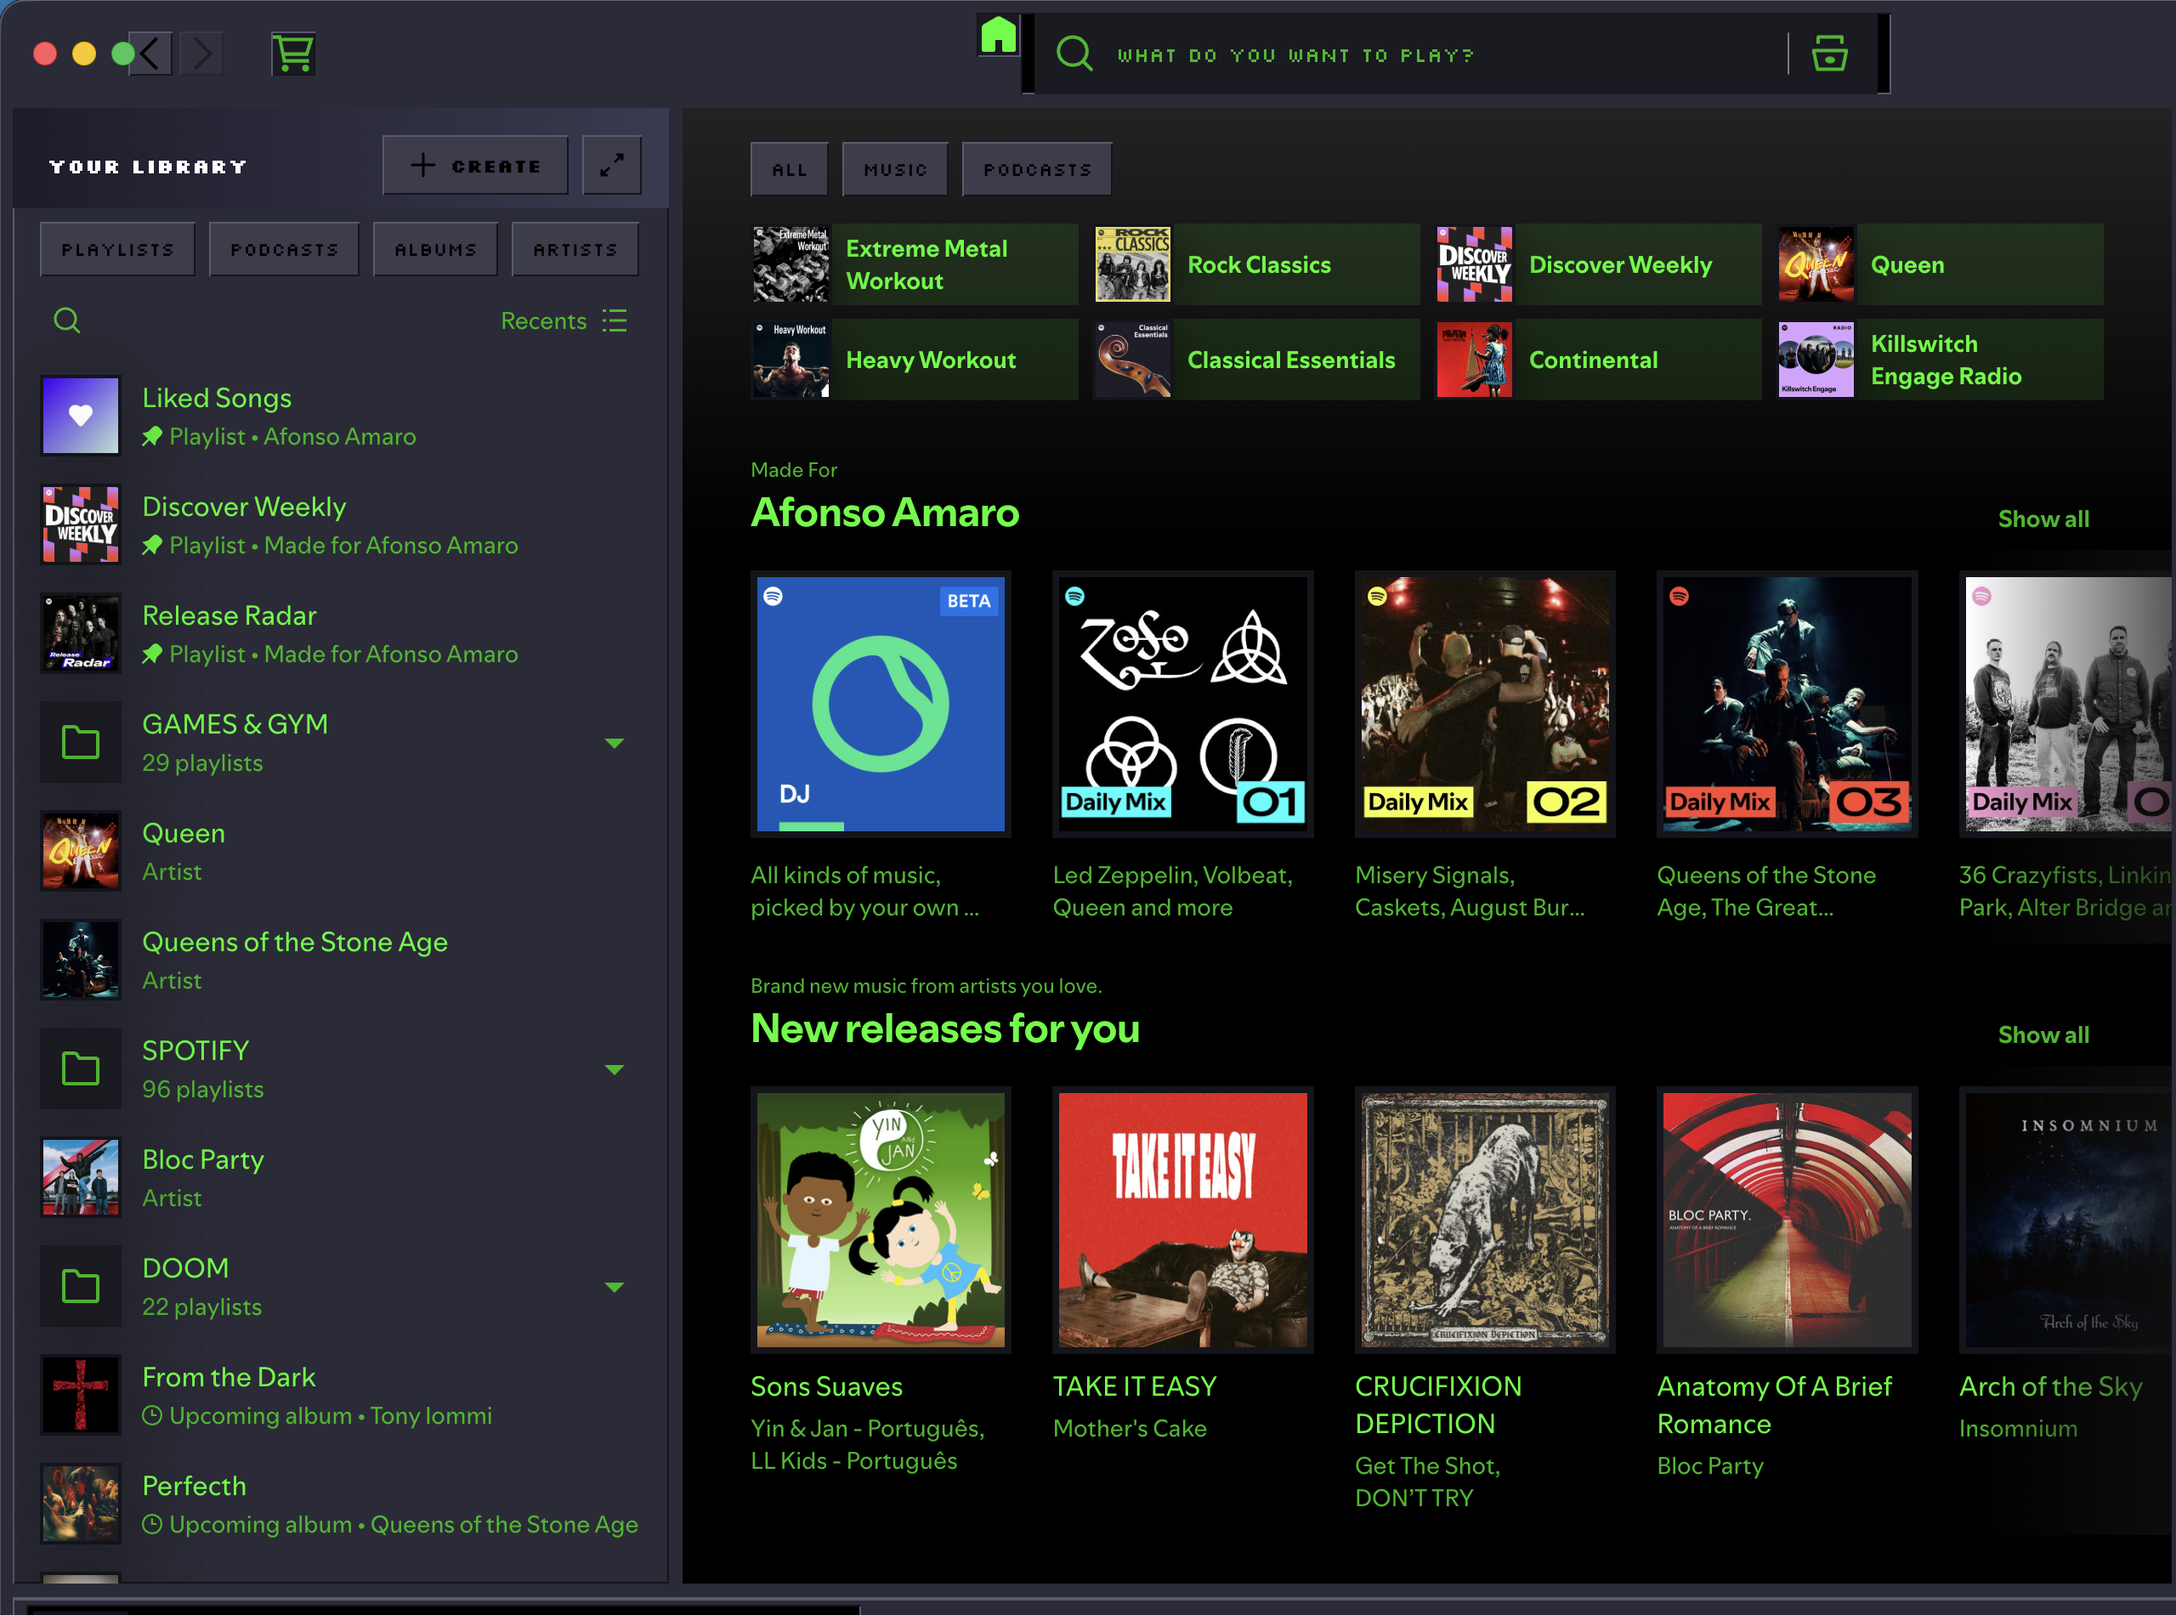
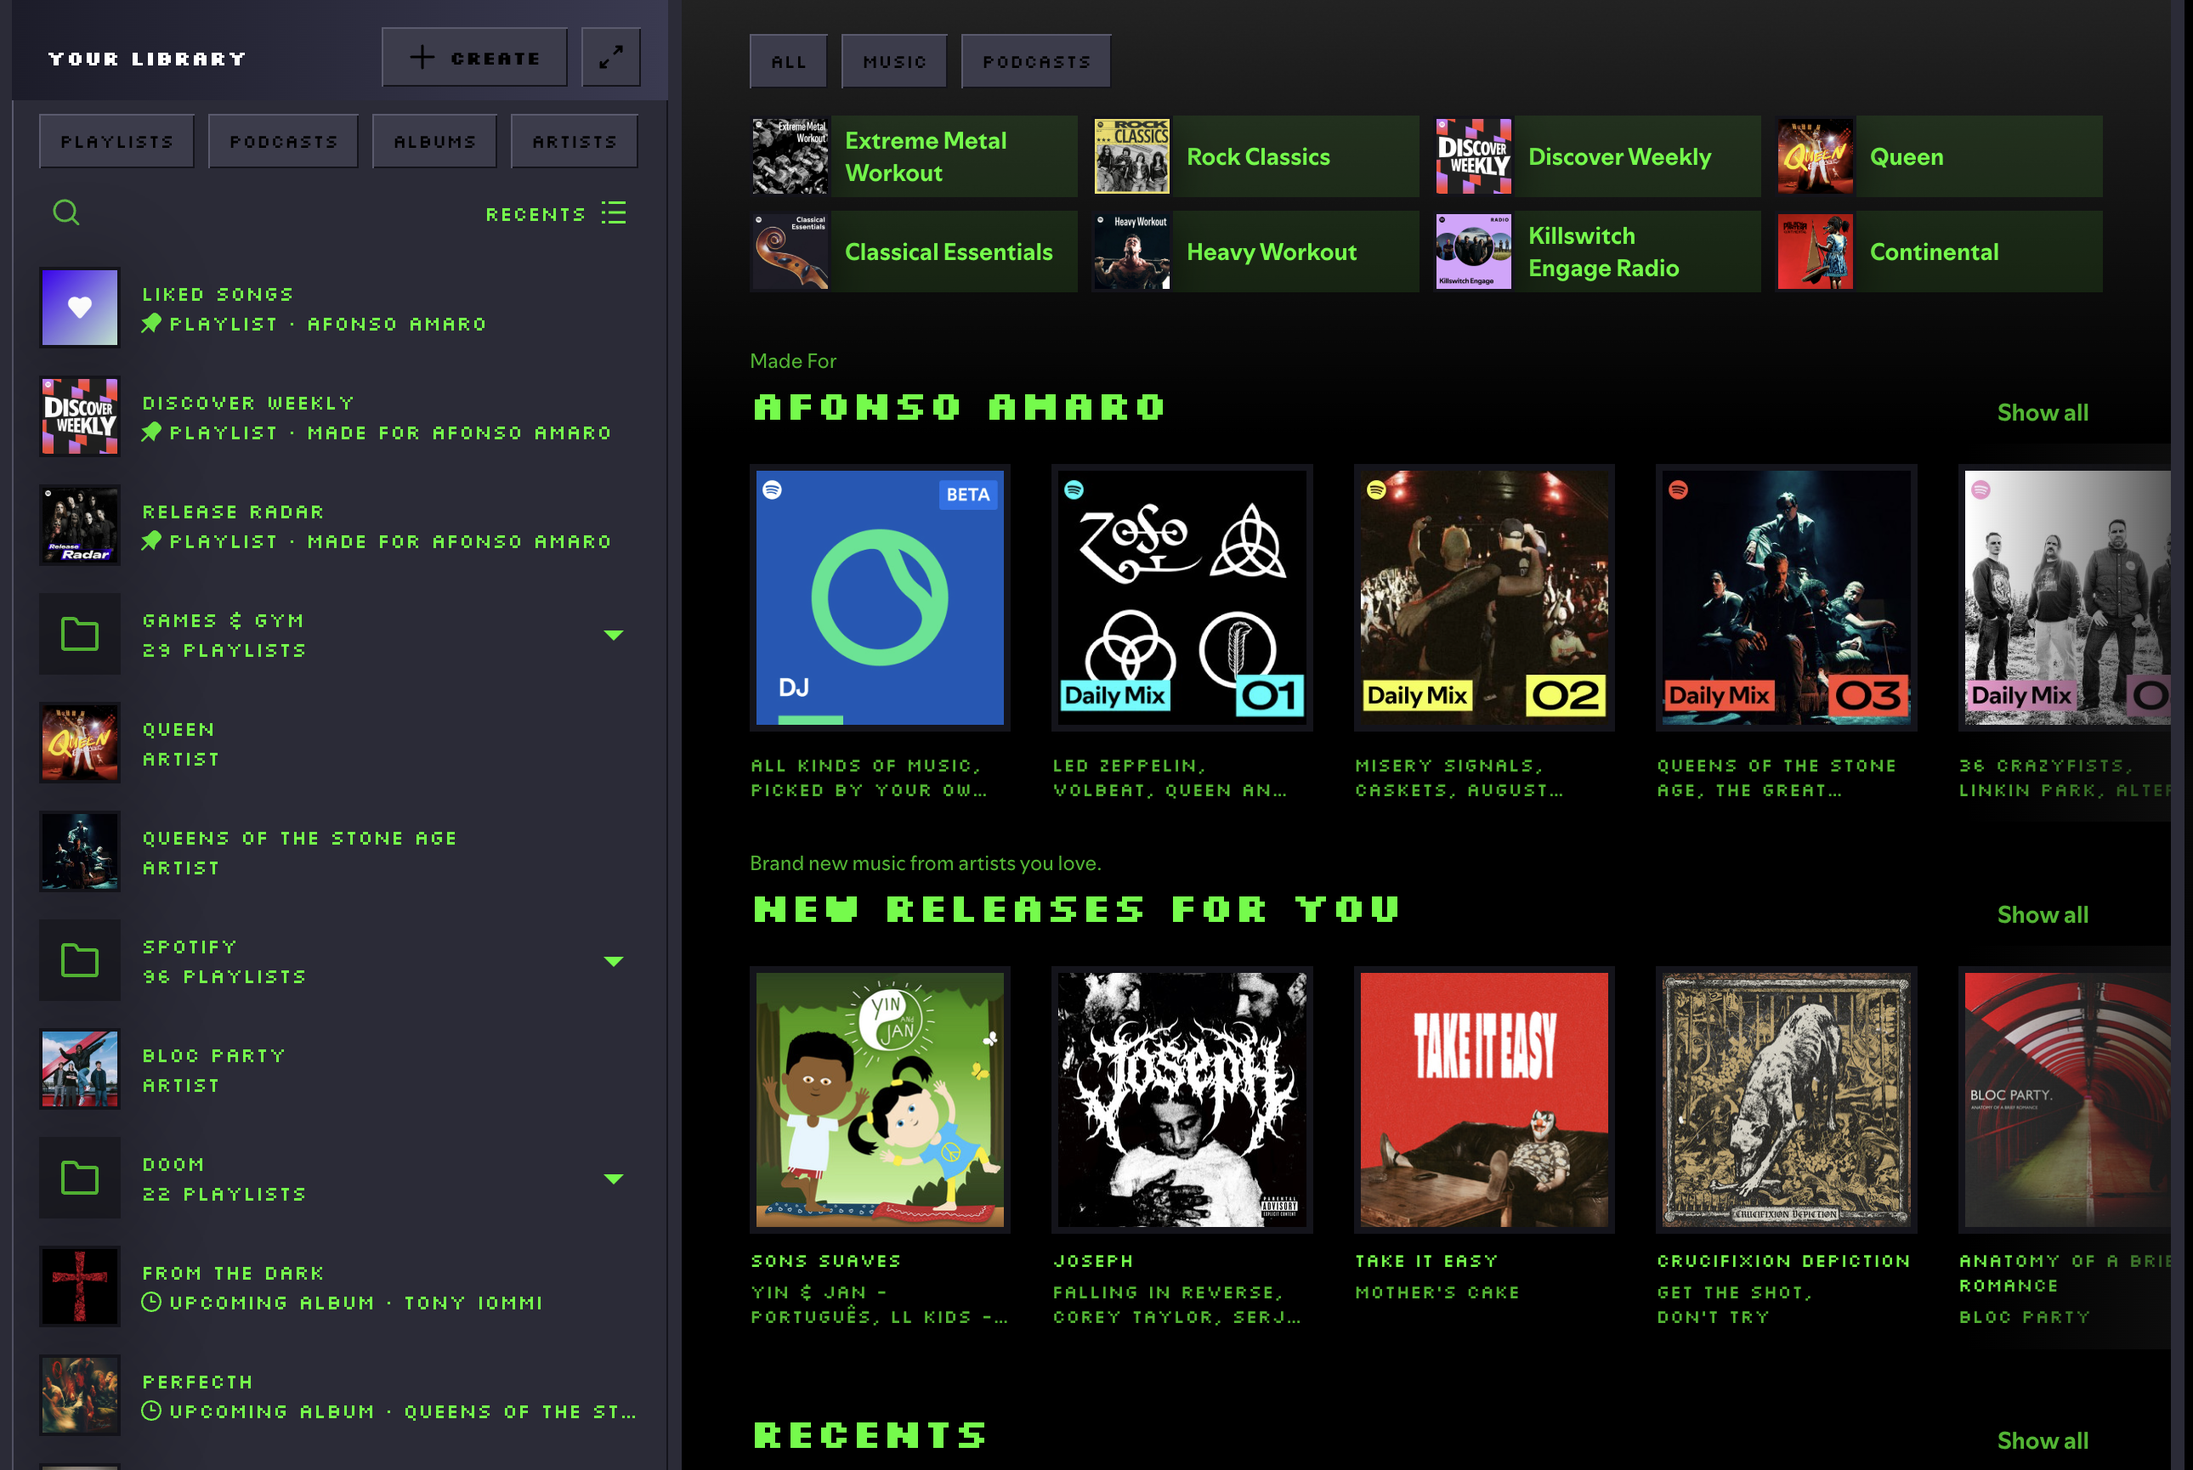
fix: restore selectors broken by Spotify 1.3.0
Library entries, track title and duration, shelf headings and card text
fell back to the stock look after the 1.3.0 update. The library and
track list now anchor on aria-selected, the track link testid and child
position; the shelf title on h2 under the main view; the card on the
Encore data-encore-id attributes, since main-card-card and
main-card-cardMetadata are gone from the DOM. The old names stay in the
selector lists so an older release lights up without an edit.

README gains the post-update ritual and the three affected screenshots
are refreshed on 1.3.0.

diff --git a/user.css b/user.css
@@ -336,26 +336,39 @@
 
 /* The row's own font never reaches the text: the title, the artist line, the
    index and the duration each carry their own, so the pixel font is set on
-   them instead of on the row. */
+   them instead of on the row.
+
+   Spotify 1.3.0 dropped the readable names for the title and the duration.
+   The title link carries a testid and the duration sits in the row's last
+   section, both readable; the old names stay so a release that brings them
+   back lights up without an edit. */
 .main-trackList-trackList .main-trackList-trackListRow a,
 .main-trackList-trackList .main-trackList-trackListRow span,
 .main-trackList-trackList .main-trackList-rowMainContentTitle,
+.main-trackList-trackList .main-trackList-rowMainContent [data-testid="internal-track-link"],
+.main-trackList-trackList .main-trackList-rowMainContent > :first-child,
 .main-trackList-trackList .main-trackList-rowMainContentSubTitle,
 .main-trackList-trackList .main-trackList-rowMarker,
-.main-trackList-trackList .main-trackList-duration {
+.main-trackList-trackList .main-trackList-duration,
+.main-trackList-trackList .main-trackList-rowSectionEnd,
+.main-trackList-trackList .main-trackList-rowSectionEnd * {
   font-family: var(--wa-font-pixel);
   font-size: 12px;
   text-transform: uppercase;
   letter-spacing: 0;
 }
 
-.main-trackList-trackList .main-trackList-rowMainContentTitle {
+.main-trackList-trackList .main-trackList-rowMainContentTitle,
+.main-trackList-trackList .main-trackList-rowMainContent [data-testid="internal-track-link"],
+.main-trackList-trackList .main-trackList-rowMainContent > :first-child {
   color: var(--spice-text);
 }
 
 .main-trackList-trackList .main-trackList-rowMainContentSubTitle,
 .main-trackList-trackList .main-trackList-rowMarker,
-.main-trackList-trackList .main-trackList-duration {
+.main-trackList-trackList .main-trackList-duration,
+.main-trackList-trackList .main-trackList-rowSectionEnd,
+.main-trackList-trackList .main-trackList-rowSectionEnd * {
   color: var(--spice-subtext);
 }
 
@@ -382,9 +395,12 @@
    for this state, so a future release renames it and the white goes quietly.
    Re-read it from the bundle when that happens. */
 .main-trackList-trackList .TiaWL1ubrITBXdmD .main-trackList-rowMainContentTitle,
+.main-trackList-trackList .TiaWL1ubrITBXdmD .main-trackList-rowMainContent [data-testid="internal-track-link"],
+.main-trackList-trackList .TiaWL1ubrITBXdmD .main-trackList-rowMainContent > :first-child,
 .main-trackList-trackList .TiaWL1ubrITBXdmD .main-trackList-rowMainContentSubTitle,
 .main-trackList-trackList .TiaWL1ubrITBXdmD .main-trackList-rowMarker,
-.main-trackList-trackList .TiaWL1ubrITBXdmD .main-trackList-duration {
+.main-trackList-trackList .TiaWL1ubrITBXdmD .main-trackList-duration,
+.main-trackList-trackList .TiaWL1ubrITBXdmD .main-trackList-rowSectionEnd * {
   color: var(--wa-white);
 }
 
@@ -429,9 +445,15 @@
   color: var(--wa-white);
 }
 
+/* Spotify 1.3.0 dropped the readable name of the entry itself; the container
+   around it kept its name and the entry still carries aria-selected. */
 .main-yourLibraryX-listItem,
 .main-yourLibraryX-listItem a,
-.main-yourLibraryX-listItem span {
+.main-yourLibraryX-listItem span,
+.main-yourLibraryX-libraryItemContainer,
+.main-yourLibraryX-libraryItemContainer a,
+.main-yourLibraryX-libraryItemContainer span,
+.main-yourLibraryX-libraryItemContainer p {
   font-family: var(--wa-font-pixel);
   font-size: 12px;
   text-transform: uppercase;
@@ -439,13 +461,17 @@
   color: var(--spice-text);
 }
 
-.main-yourLibraryX-listItem[aria-selected="true"] {
+.main-yourLibraryX-listItem[aria-selected="true"],
+.main-yourLibraryX-libraryItemContainer[aria-selected="true"],
+.main-yourLibraryX-libraryItemContainer [aria-selected="true"] {
   background-color: var(--spice-selected-row);
   box-shadow: var(--wa-sunken);
 }
 
 .main-yourLibraryX-listItem[aria-selected="true"] a,
-.main-yourLibraryX-listItem[aria-selected="true"] span {
+.main-yourLibraryX-listItem[aria-selected="true"] span,
+.main-yourLibraryX-libraryItemContainer[aria-selected="true"] *,
+.main-yourLibraryX-libraryItemContainer [aria-selected="true"] * {
   color: var(--wa-white);
 }
 
@@ -598,7 +624,8 @@ button.main-globalNav-navLinkActive {
    bars, and the entity header already sits on its own artwork. */
 .main-entityHeader-title,
 .main-entityHeader-title h1,
-.main-shelf-title {
+.main-shelf-title,
+.main-view-container h2 {
   font-family: var(--wa-font-pixel);
   text-transform: uppercase;
   color: var(--wa-white);
@@ -653,19 +680,41 @@ button.main-globalNav-navLinkActive {
   box-shadow: var(--wa-sunken);
 }
 
+/* Spotify 1.3.0 moved the shelf card to the Encore design system: the card is
+   [data-encore-id="card"] (css-map still names it main-card-cardContainer),
+   the title is [data-encore-id="cardTitle"] and the line under it is
+   [data-encore-id="cardSubtitle"]. main-card-card and main-card-cardMetadata
+   are gone from the DOM. Encore paints the text through
+   .encore-internal-color-text-subdued and .encore-text-* rules that load after
+   this sheet, so the card container is in the selector to win the tie. The
+   pre-1.3.0 names stay so an older release lights up without an edit. */
 .main-cardHeader-text,
-.main-cardSubHeader-root {
+.main-cardSubHeader-root,
+.main-card-card .main-card-cardTitle,
+.main-card-card .main-card-cardMetadata,
+.main-card-card .main-card-cardMetadata *,
+.main-card-cardContainer [data-encore-id="cardTitle"],
+.main-card-cardContainer [data-encore-id="cardTitle"] *,
+.main-card-cardContainer [data-encore-id="cardSubtitle"],
+.main-card-cardContainer [data-encore-id="cardSubtitle"] * {
   font-family: var(--wa-font-pixel);
   font-size: 11px;
   text-transform: uppercase;
   letter-spacing: 0;
 }
 
-.main-cardHeader-text {
+.main-cardHeader-text,
+.main-card-card .main-card-cardTitle,
+.main-card-cardContainer [data-encore-id="cardTitle"],
+.main-card-cardContainer [data-encore-id="cardTitle"] * {
   color: var(--spice-text);
 }
 
-.main-cardSubHeader-root {
+.main-cardSubHeader-root,
+.main-card-card .main-card-cardMetadata,
+.main-card-card .main-card-cardMetadata *,
+.main-card-cardContainer [data-encore-id="cardSubtitle"],
+.main-card-cardContainer [data-encore-id="cardSubtitle"] * {
   color: var(--spice-subtext);
 }
 

diff --git a/issues/FN-07-spotify-1-3-0-compatibility.md b/issues/FN-07-spotify-1-3-0-compatibility.md
@@ -24,9 +24,9 @@ Spotify updated from 1.2.99.317 to 1.3.0.277 during PP-05 and stopped emitting s
 Everything else survived, including the three generated class names for the playing row, repeat and shuffle.
 
 ## Acceptance Criteria
-- [ ] Each of the six renders again on 1.3.0, confirmed on screen.
-- [ ] No new generated class name unless the issue records why nothing better exists.
-- [ ] The post-update ritual is in the README: `spicetify update`, then `spicetify backup apply`.
+- [x] Each of the six renders again on 1.3.0, confirmed on screen.
+- [x] No new generated class name unless the issue records why nothing better exists.
+- [x] The post-update ritual is in the README: `spicetify update`, then `spicetify backup apply`.
 - [ ] Any name found by hand is proposed to Spicetify's class map.
 
 ## Dependencies
@@ -51,15 +51,15 @@ Research done on 2026-09-14 against Spotify 1.3.0.277 with Spicetify 2.45.0, rea
 | `main-yourLibraryX-listItem` | `main-yourLibraryX-libraryItemContainer` wraps each entry; the entry keeps `aria-selected` | `.main-yourLibraryX-libraryItemContainer` for font and colour; `[aria-selected="true"]` on or inside it for the current entry |
 | `main-trackList-rowMainContentTitle` | `main-trackList-rowMainContent` wraps title and artist; the title link carries `data-testid="internal-track-link"` | `.main-trackList-rowMainContent [data-testid="internal-track-link"]`, with `.main-trackList-rowMainContent > :first-child` as the structural fallback if the testid does not render |
 | `main-trackList-duration` | `main-trackList-rowSectionEnd` is the last column and holds the duration | `.main-trackList-rowSectionEnd` and its descendants |
-| `main-cardHeader-text` | `main-card-cardMetadata` wraps title and subtitle; the map now gives the title an empty class | `.main-card-cardMetadata > :first-child` |
-| `main-cardSubHeader-root` | same | `.main-card-cardMetadata > :not(:first-child)` |
+| `main-cardHeader-text` | the card is now an Encore component; the title carries `data-encore-id="cardTitle"` | `.main-card-cardContainer [data-encore-id="cardTitle"]` |
+| `main-cardSubHeader-root` | the line under the title carries `data-encore-id="cardSubtitle"` | `.main-card-cardContainer [data-encore-id="cardSubtitle"]` |
 | `main-shelf-title` | nothing readable is left on the shelf; the title is the only `h2` in the content column | `.main-view-container h2` |
 
 The generated names behind two of them, for the record and for the upstream proposal: `rowTitle` is `k_CUvHNLoYcwpmUhV5jN` and `rowDuration` is `buwCyhSufWYlHJ5_Wffd` in this build. Neither is used in the theme.
 
 ## Architecture Decisions
 - **No generated name enters the theme.** Every replacement is a readable container, an ARIA attribute or a child position. The two hashes above go to Spicetify's class map as `main-trackList-rowTitle` and `main-trackList-rowDuration`, which is where they belong.
-- **Child-position selectors are accepted where the container is readable.** `:first-child` under `main-card-cardMetadata` is tied to the order title-then-subtitle, which is the component's contract, not a styling accident.
+- **Encore `data-encore-id` attributes are the anchor for design-system components.** They are the component's public contract (the same attribute Spotify uses for `card`, `cardTitle`, `cardSubtitle`, `listRow`), and they do not carry the build number the `e-NNNNN-*` classes do.
 - **The old names stay in the selector lists.** A release that brings them back should light up without an edit. The rules become `.old, .new { ... }`.
 - **The README gains the post-update ritual**, which is a real user-facing need now that two updates in a week wiped the theme.
 
@@ -92,3 +92,13 @@ None.
 ## Unknowns
 - Whether `internal-track-link` renders as a DOM attribute. PP-02 showed per-button testids do not on the now playing bar; links may differ. The structural fallback is in the same rule so nothing depends on the answer.
 - Whether `aria-selected` sits on the container or on the hashed entry inside it. Both forms are in the selector.
+
+---
+
+# Found during execution
+
+- The card map in css-map.json still names `main-card-cardContainer`, `main-card-cardTitle` and `main-card-imageContainer` on 1.3.0, but `main-card-card` and `main-card-cardMetadata` are gone: the shelf card is now the Encore `card` component, with `[data-encore-id="cardTitle"]` and `[data-encore-id="cardSubtitle"]` for the text. Three attempts anchored on the old names painted nothing; the fix was to read the live DOM.
+- Spotify accepts `--remote-debugging-port=9222` (`open -a Spotify --args --remote-debugging-port=9222`), which exposes the Chrome DevTools Protocol. A 10-line Node script over `Runtime.evaluate` reads the DOM, computed styles and navigates through `Spicetify.Platform.History`. This replaces guessing from the bundle for every selector question from here on.
+- `spicetify apply` restarts Spotify without the flag; relaunch it by hand after each apply when the port is needed.
+- Track title (`k_CUvHNLoYcwpmUhV5jN`) and duration (`buwCyhSufWYlHJ5_Wffd`) are resolved through `[data-testid="internal-track-link"]`, `.main-trackList-rowMainContent > :first-child` and `.main-trackList-rowSectionEnd`, so the theme carries no hash. The two names still go upstream to the class map (criterion 4, opened after merge).
+- The Home shortcut grid, the "Made For" kicker and the "Show all" links were never in the theme's font, before or after 1.3.0; out of scope here.

diff --git a/README.md b/README.md
@@ -19,6 +19,19 @@ spicetify apply
 
 On Windows the themes folder is `%appdata%\spicetify\Themes`.
 
+## After Spotify updates
+
+Spotify overwrites its own files when it updates, which removes every theme. When the app comes back with the stock look, run:
+
+```bash
+spicetify update       # only if Spicetify itself reports a new version
+spicetify backup apply
+```
+
+`backup apply` takes a fresh backup of the new Spotify and applies the theme on top of it. A plain `spicetify apply` is not enough after an update, because the backup it would restore is from the previous Spotify.
+
+Spotify also renames CSS classes between releases. If a part of the theme falls back to the stock look after an update, that is a selector that no longer matches; please open an issue with the Spotify version.
+
 ## Development
 
 ```bash

diff --git a/issues/_index.md b/issues/_index.md
@@ -26,7 +26,7 @@ Source: `SPECS.md`. Spicetify theme that recreates the Winamp 2.x look with CSS,
 | FN-04 | Spectrum analyzer synced with getAudioData (spike, optional) | todo | FN-03 |
 | FN-05 | WINAMP title bar | todo | FN-01, PP-02 |
 | FN-06 | Marketplace release | todo | FN-00b, PP-01 to PP-05, FN-02, FN-03, FN-05 |
-| FN-07 | Spotify 1.3.0 compatibility | planned | PP-05 |
+| FN-07 | Spotify 1.3.0 compatibility | done (Sep 14) | PP-05 |
 
 ## Critical path
 FN-00 → FN-00b → PP-01 → PP-02 → FN-01 → FN-02 → FN-03 → FN-05 → FN-06.
